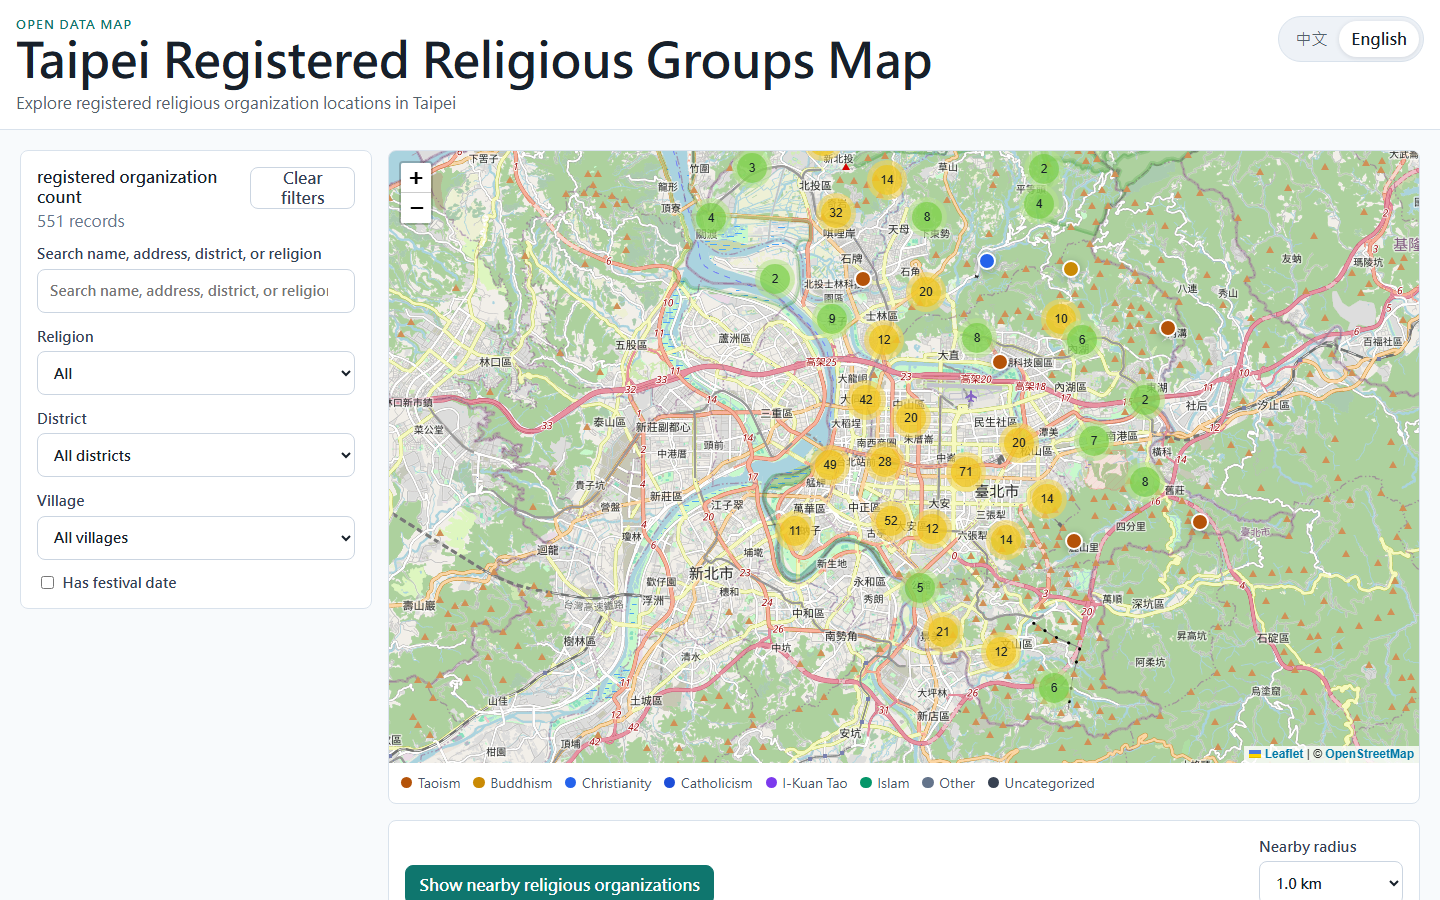
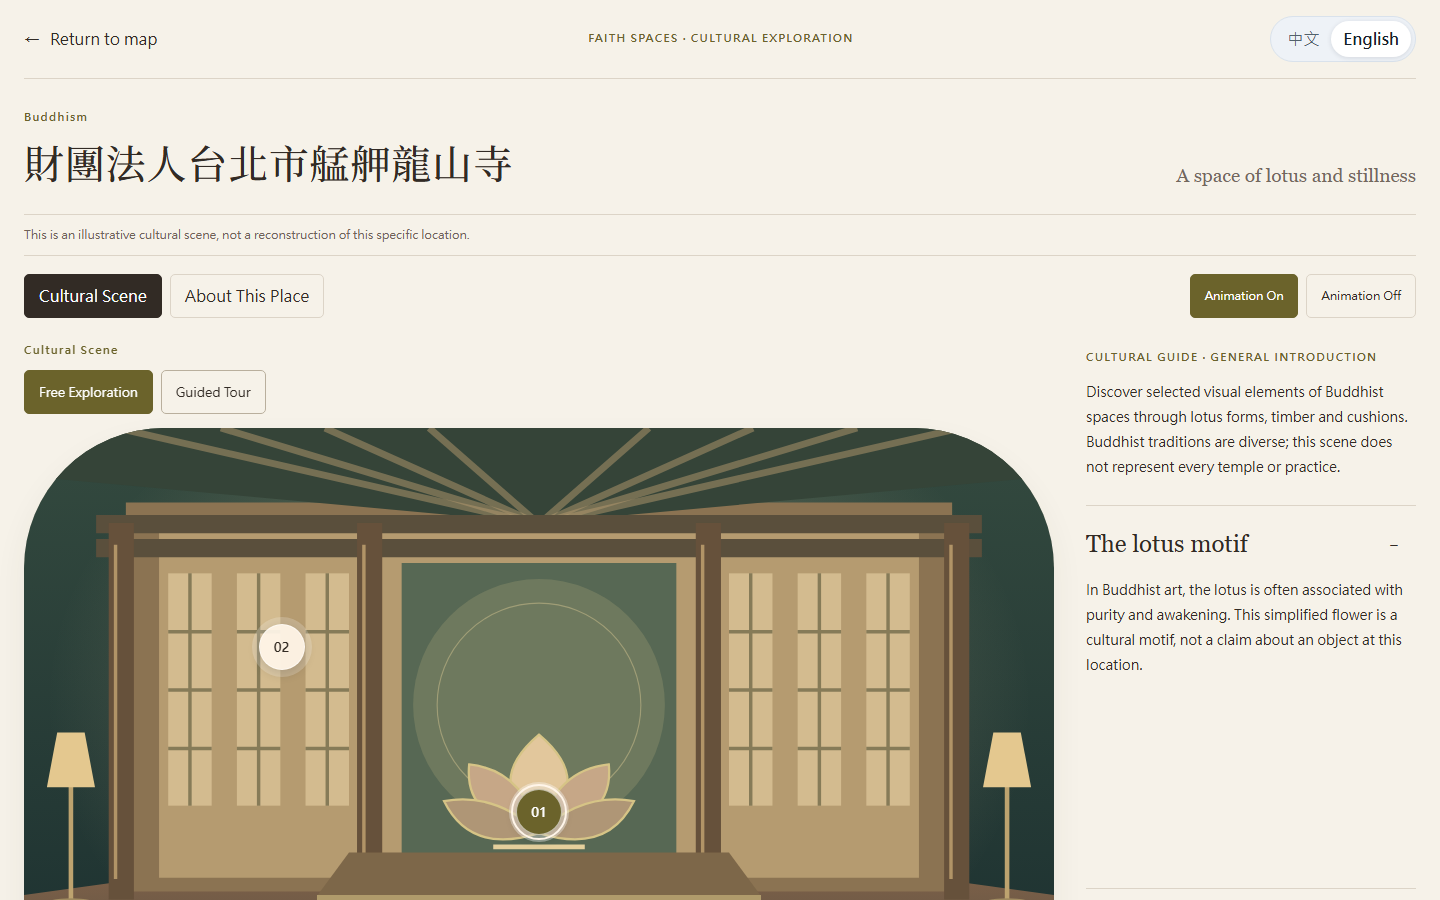
docs: Update Taipei Faith Map Portfolio Showcase

diff --git a/src/data/projects.zh.ts b/src/data/projects.zh.ts
@@ -260,13 +260,26 @@ export const zhProjectContent: Record<string, LocalizedProjectContent> = {
     features: ["A1／A2 事故點位與熱點視覺化", "時間、行政區、事故類型與地點篩選", "事故因素彙總圖表", "雙語介面與行動版支援", "交通違規檢舉及鑑定覆議彙總", "官方 VD 來源稽核與設備／LinkID／方向盤點", "歷史觀測資格與來源新鮮度檢查", "獨立品質分級及容量5／10設備查核", "確定性情境、JSON／CSV 簡報與延遲交通模組", "官方 PTO 公車主／附屬路線與站牌站序辨識", "公告班表／班距證據及方向資格限制", "A/B/C 文件調查分級與主路線均衡名額情境", "版本化公車 manifest、索引明細與研究簡報"]
   },
   "taipei-faith-map": {
-    name: "台北宗教團體地圖",
-    tagline: "台北已立案宗教團體的雙語地圖與目錄",
-    shortDescription: "以行動優先地圖，搜尋及探索台北市已立案宗教團體。",
-    fullDescription: "將公開登記與座標資料轉為實用的雙語目錄，支援地圖群聚標記、篩選與響應式瀏覽，展現資料轉換、座標系統處理及公民科技介面實作能力。",
+    name: "台北信仰文化地圖",
+    tagline: "用自己的步調探索台北的信仰與文化",
+    shortDescription: "結合臺北市宗教團體公開資料、文化散步路線、歷史故事與互動信仰空間的雙語探索平台。",
+    fullDescription: "慢慢探索，重新感受。V2.1 可從地圖前往散步站點、閱讀附有來源的故事，或走進插畫呈現的信仰空間，並回到原先的探索位置。響應式介面支援鍵盤操作及減少動態效果。",
     role: "前端／公民科技開發者",
     categories: ["Web 應用", "地圖工具", "公民科技"],
-    features: ["已立案宗教團體目錄", "群聚地圖視覺化", "座標轉換流程", "雙語行動優先介面"]
+    features: [
+      "互動地圖、搜尋、篩選與可選的附近探索",
+      "文化散步路線、歷史時間軸與文化故事",
+      "插畫信仰空間、可選的信仰片刻與文化行事曆",
+      "靜心庭院開放試行，訪客可自行選擇加入。留言角落目前停用。"
+    ],
+    challenges: [
+      "用 Proj4 將臺北市 ODS 公開資料的座標從 TWD97 轉為 WGS84，驗證點位，並以現行登記資料比對附有出處的文化紀錄。",
+      "單人探索可獨立運作。庭院加入流程使用 Supabase 匿名驗證與 Turnstile，透過私有 Realtime Presence 分享中性動作，不傳送地點或瀏覽紀錄。"
+    ],
+    outcomes: [
+      "以靜態優先的 PWA 部署至 GitHub Pages，並新增每月執行的 GitHub Actions 工作流程，檢查公開資料、引用來源與行事曆異動，供人工審閱。",
+      "Hotfix #28 在重新連線間共用 Presence 更新額度，佇列只保留最新姿勢。自動化測試涵蓋限流處理，正式站雙瀏覽器同步仍待驗證。"
+    ]
   },
   "taipei-1999-map": {
     name: "台北 1999 派工地圖",

diff --git a/src/data/projects.ts b/src/data/projects.ts
@@ -694,21 +694,29 @@ export const projects: Project[] = [
   {
     id: "taipei-faith-map",
     slug: "taipei-faith-map",
-    name: "Taipei Registered Religious Groups Map",
-    tagline: "Bilingual directory map of registered religious groups in Taipei",
+    name: "Taipei Faith Map",
+    tagline: "Explore Taipei’s faith and heritage at your own pace",
     shortDescription:
-      "A mobile-first map for searching and exploring officially registered religious organizations across Taipei.",
+      "A bilingual cultural exploration platform connecting Taipei’s public religious-location data with curated walking routes, historical stories, and interactive Faith Spaces.",
     fullDescription:
-      "Taipei Registered Religious Groups Map converts public registration and coordinate data into a practical bilingual directory. It demonstrates data conversion, coordinate-system handling, clustered map markers, filtering, and responsive civic-tech interface design.",
+      "Explore slowly. Notice deeply. V2.1 lets visitors move from a map result to a walking stop, a cited story, or an illustrated Faith Space and return to where they left off. The responsive interface supports keyboard navigation and reduced motion.",
     role: "Frontend / Civic Tech Developer",
     teamType: "solo",
     techStack: ["TypeScript", "React", "Vite", "Leaflet", "Proj4"],
     categories: ["Web App", "Maps", "Civic Tech"],
     features: [
-      "Registered religious-group directory",
-      "Clustered map visualization",
-      "Coordinate conversion workflow",
-      "Bilingual mobile-first interface"
+      "Interactive map, search, filters, and optional nearby discovery",
+      "Cultural Walking Routes, Historical Timeline, and Heritage Stories",
+      "Illustrated Faith Spaces, optional Faith Moments, and Cultural Calendar",
+      "Quiet Garden public pilot with opt-in guest access. Quiet Corner is disabled."
+    ],
+    challenges: [
+      "Convert Taipei City’s ODS coordinates from TWD97 to WGS84 with Proj4, validate locations, and match current registrations to cited cultural records.",
+      "Keep solo exploration independent of shared services. Garden joins use Supabase Anonymous Auth and Turnstile. Private Realtime Presence shares neutral actions without location or browsing history."
+    ],
+    outcomes: [
+      "Shipped a static-first PWA to GitHub Pages. Added monthly GitHub Actions checks for source data, citations, and calendar changes for editorial review.",
+      "Hotfix #28 budgets Presence updates across reconnects and queues only the latest pose. Automated tests covered rate-limit handling. Hosted two-browser synchronization awaits verification."
     ],
     image: "/src/assets/images/projects/taipei-faith-map.png",
     demoUrl: "https://leo0331.github.io/taipei-faith-map/",

diff --git a/progress.md b/progress.md
@@ -2,31 +2,31 @@
 
 ## Current State
 
-**Last updated:** 2026-11-04
+**Last updated:** 2026-11-09
 
-**Active work:** Fix PR #49 on `codex/portfolio-distribution-notices`, integrating main `d3896f9` and its merged audit archive.
+**Active work:** Taipei Faith Map V2.1 portfolio refresh from portfolio main `28019b3`.
 
-**Status:** Documentation conflicts resolved with both historical records retained. E2E runner pinned to Ubuntu 24.04 after the hosted failure showed Playwright 1.59.1 rejecting Ubuntu 26.04. Local verification passed; repaired PR head awaits hosted CI.
-
-### Completed
-
-Retained fail-closed distribution notice generation and merged PR #50 audit documentation. Resolved progress/handoff conflicts without dropping either dated history. Pinned only the E2E runner to Ubuntu 24.04 after run 41587643098 failed at browser installation on Ubuntu 26.04. No dependency versions, canonical project/case records or analytical source changed.
+**Status:** The existing English and Traditional Chinese entry and its PNG/WebP preview now present the cultural exploration experience and the scope of Hotfix #28.
 
 ### Verification Evidence
 
-2026-11-04 repair gate: clean npm install, audit 0, 47 unit tests, production build (42 registered routes), 281 Chromium tests and 17/17 tracked flows passed. Harness 33 and diff checks passed. Built notice matches installed sources exactly; tracked copy matches after Windows checkout newline normalization. Initial sandbox npm install stalled and was stopped; initial sandbox build hit EPERM creating dist/govtech/urban-renewal; network-enabled install and elevated E2E build completed successfully.
+Reviewed the [V2.1 release](https://github.com/LEO0331/taipei-faith-map/blob/a43aae7/docs/release-v2.1.md), demo guide, design philosophy, and monthly maintenance docs on source main. [Hotfix #28](https://github.com/LEO0331/taipei-faith-map/pull/28) merged as `a43aae7` and the [Pages run](https://github.com/LEO0331/taipei-faith-map/actions/runs/42589751199) succeeded on that commit. The public site served the Bangka route and Lungshan Temple Faith Space, and switched to Traditional Chinese while retaining the selected route. The deployed build enables the Quiet Garden pilot and disables Quiet Corner.
+
+The hosted mobile check confirmed the calendar, timeline, stories, bilingual route, and passive Garden open and close with focus restoration and no Auth or CAPTCHA requests. A separate hosted check confirmed map filtering and nearby results with simulated coordinates. The repository URL returned HTTP 200.
+
+The portfolio sync dry run proposed no updates to existing projects. Locked install, audit (zero vulnerabilities), harness (34 features), 47 unit tests, production build, 281 Chromium E2E tests, 17/17 tracked flows, and the diff check passed. Targeted Chromium checks covered EN/ZH at 1440px and 390px, including search, preview decoding, demo and repository link targets, drawer copy, Escape, focus restoration, and page width. Both mobile locales also passed combined search and status filtering.
 
 ### Blockers
 
-No implementation blocker. Hosted notice acceptance requires later authorized merge/deployment.
+None for the portfolio content. Hosted two-browser Garden synchronization and the first hosted monthly monitoring run are outstanding upstream.
 
 ### Remaining Risks
 
-License texts are reproduced from the locked installed runtime dependency closure; this is factual attribution retention, not a legal certification.
+Hotfix evidence covers simulated transport and rate-limit handling. Live guest verification and peer synchronization were outside this refresh.
 
 ### Next Session Should
 
-Inspect PR #49 checks after the repair push. After separately authorized merge/deployment, confirm the notice URL and bilingual footer in production.
+Review the focused portfolio PR and its hosted checks.
 
 ## Update Contract
 
@@ -38,6 +38,38 @@ When project data, assets, dependencies, routing, CI, or maintenance workflows c
 4. Record incomplete verification and remaining risks explicitly.
 
 ## History
+
+### 2026-11-09 — Taipei Faith Map showcase
+
+Updated the `taipei-faith-map` record in `src/data/projects.ts` and `src/data/projects.zh.ts`. Replaced the directory capture with the live Lungshan Temple Faith Space in both preview formats (1440×900, 74 KB WebP and 143 KB PNG). Recorded evidence in the feature register and handoff.
+
+### 2026-11-04 — Distribution notices and runner repair
+
+**Last updated:** 2026-11-04
+
+**Active work:** Fix PR #49 on `codex/portfolio-distribution-notices`, integrating main `d3896f9` and its merged audit archive.
+
+**Status:** Documentation conflicts resolved with both historical records retained. E2E runner pinned to Ubuntu 24.04 after the hosted failure showed Playwright 1.59.1 rejecting Ubuntu 26.04. Local verification passed; repaired PR head awaits hosted CI.
+
+#### Completed
+
+Retained fail-closed distribution notice generation and merged PR #50 audit documentation. Resolved progress/handoff conflicts without dropping either dated history. Pinned only the E2E runner to Ubuntu 24.04 after run 41587643098 failed at browser installation on Ubuntu 26.04. No dependency versions, canonical project/case records or analytical source changed.
+
+#### Verification Evidence
+
+2026-11-04 repair gate: clean npm install, audit 0, 47 unit tests, production build (42 registered routes), 281 Chromium tests and 17/17 tracked flows passed. Harness 33 and diff checks passed. Built notice matches installed sources exactly; tracked copy matches after Windows checkout newline normalization. Initial sandbox npm install stalled and was stopped; initial sandbox build hit EPERM creating dist/govtech/urban-renewal; network-enabled install and elevated E2E build completed successfully.
+
+#### Blockers
+
+No implementation blocker. Hosted notice acceptance requires later authorized merge/deployment.
+
+#### Remaining Risks
+
+License texts are reproduced from the locked installed runtime dependency closure; this is factual attribution retention, not a legal certification.
+
+#### Next Session Should
+
+Inspect PR #49 checks after the repair push. After separately authorized merge/deployment, confirm the notice URL and bilingual footer in production.
 
 ### 2026-10-29 — Final audit maintenance
 

diff --git a/session-handoff.md b/session-handoff.md
@@ -1,5 +1,27 @@
 # Session Handoff
 
+**Current objective:** Refresh the existing Taipei Faith Map showcase for V2.1 and Production Hotfix #28.
+
+**Current status:** Bilingual project records and the deployed Faith Space capture are ready for review. See the 2026-11-09 progress entry for source and browser evidence.
+
+## Verification Evidence
+
+Locked install, audit, harness, 47 unit tests, production build, 281 Chromium tests and all 17 tracked flows passed. Targeted card and drawer checks passed at 1440px and 390px in both languages.
+
+## Blockers
+
+None for the portfolio update. The source project still has hosted two-browser Garden and monthly monitoring follow-up.
+
+## Recommended Next Step
+
+Review the focused portfolio PR and its hosted checks.
+
+## Files Relevant to the Next Update
+
+`src/data/projects.ts`, `src/data/projects.zh.ts`, the two `taipei-faith-map` project images, `feature_list.json`, and `progress.md`.
+
+## Historical handoff — 2026-11-04 distribution notice repair
+
 **Current objective:** Unblock PR #49 while retaining distribution notices and the merged Civic Explorer audit archive.
 
 **Current status:** Main `d3896f9` integrated; documentation conflicts resolved and E2E runner pinned to Playwright-supported Ubuntu 24.04. Local verification passed; no merge to main or deployment.
